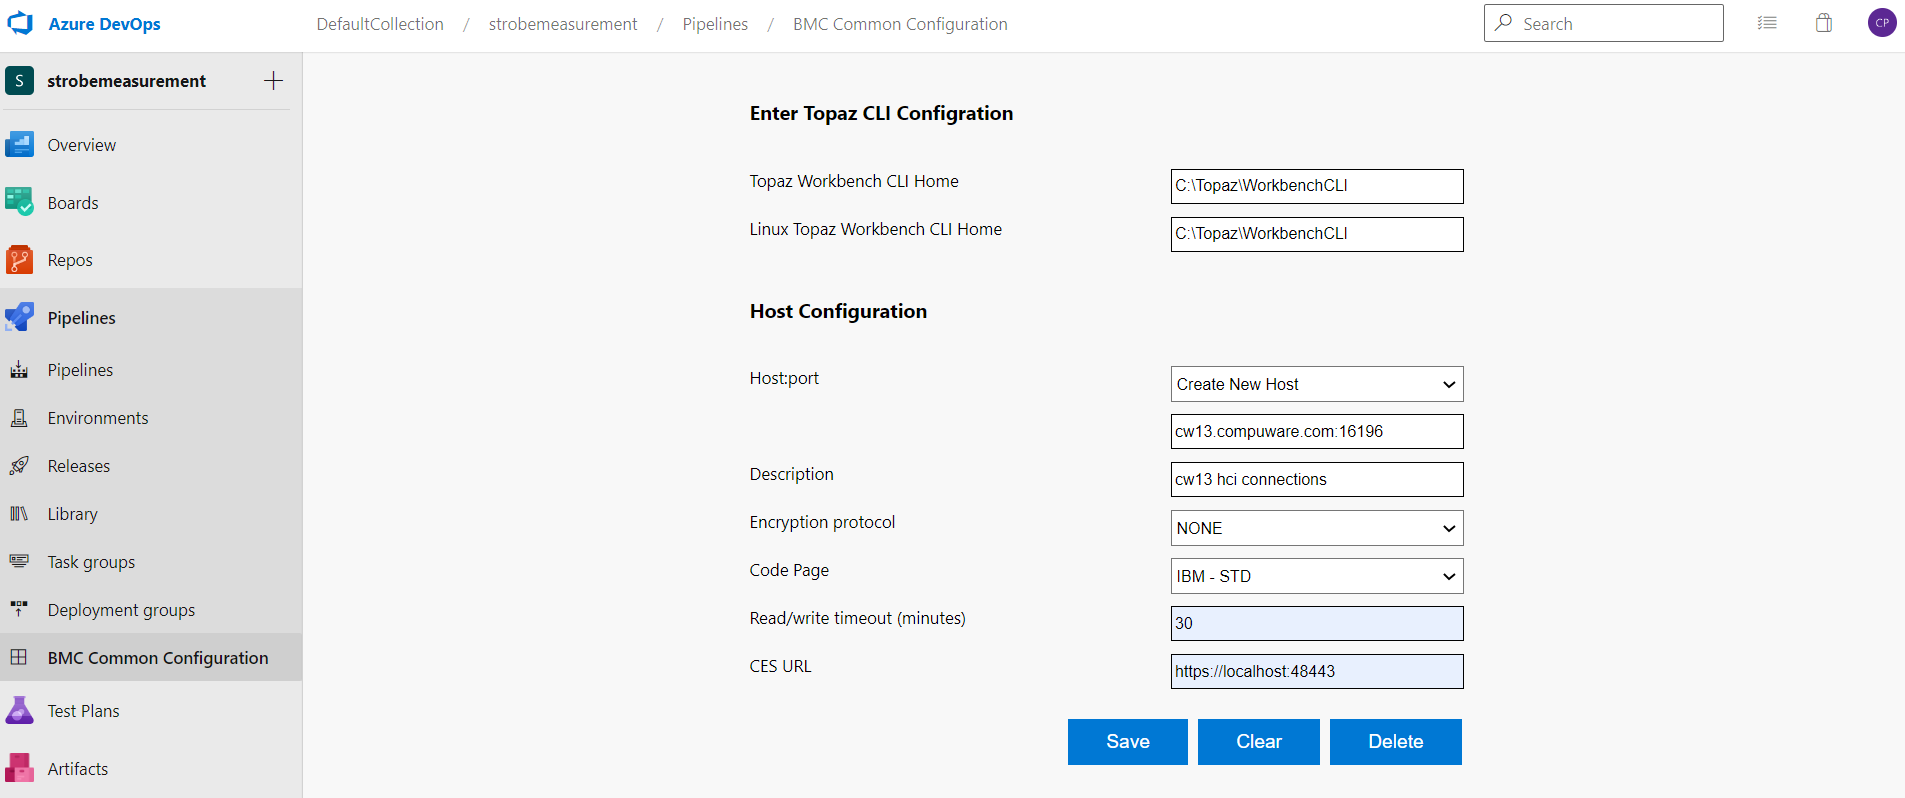
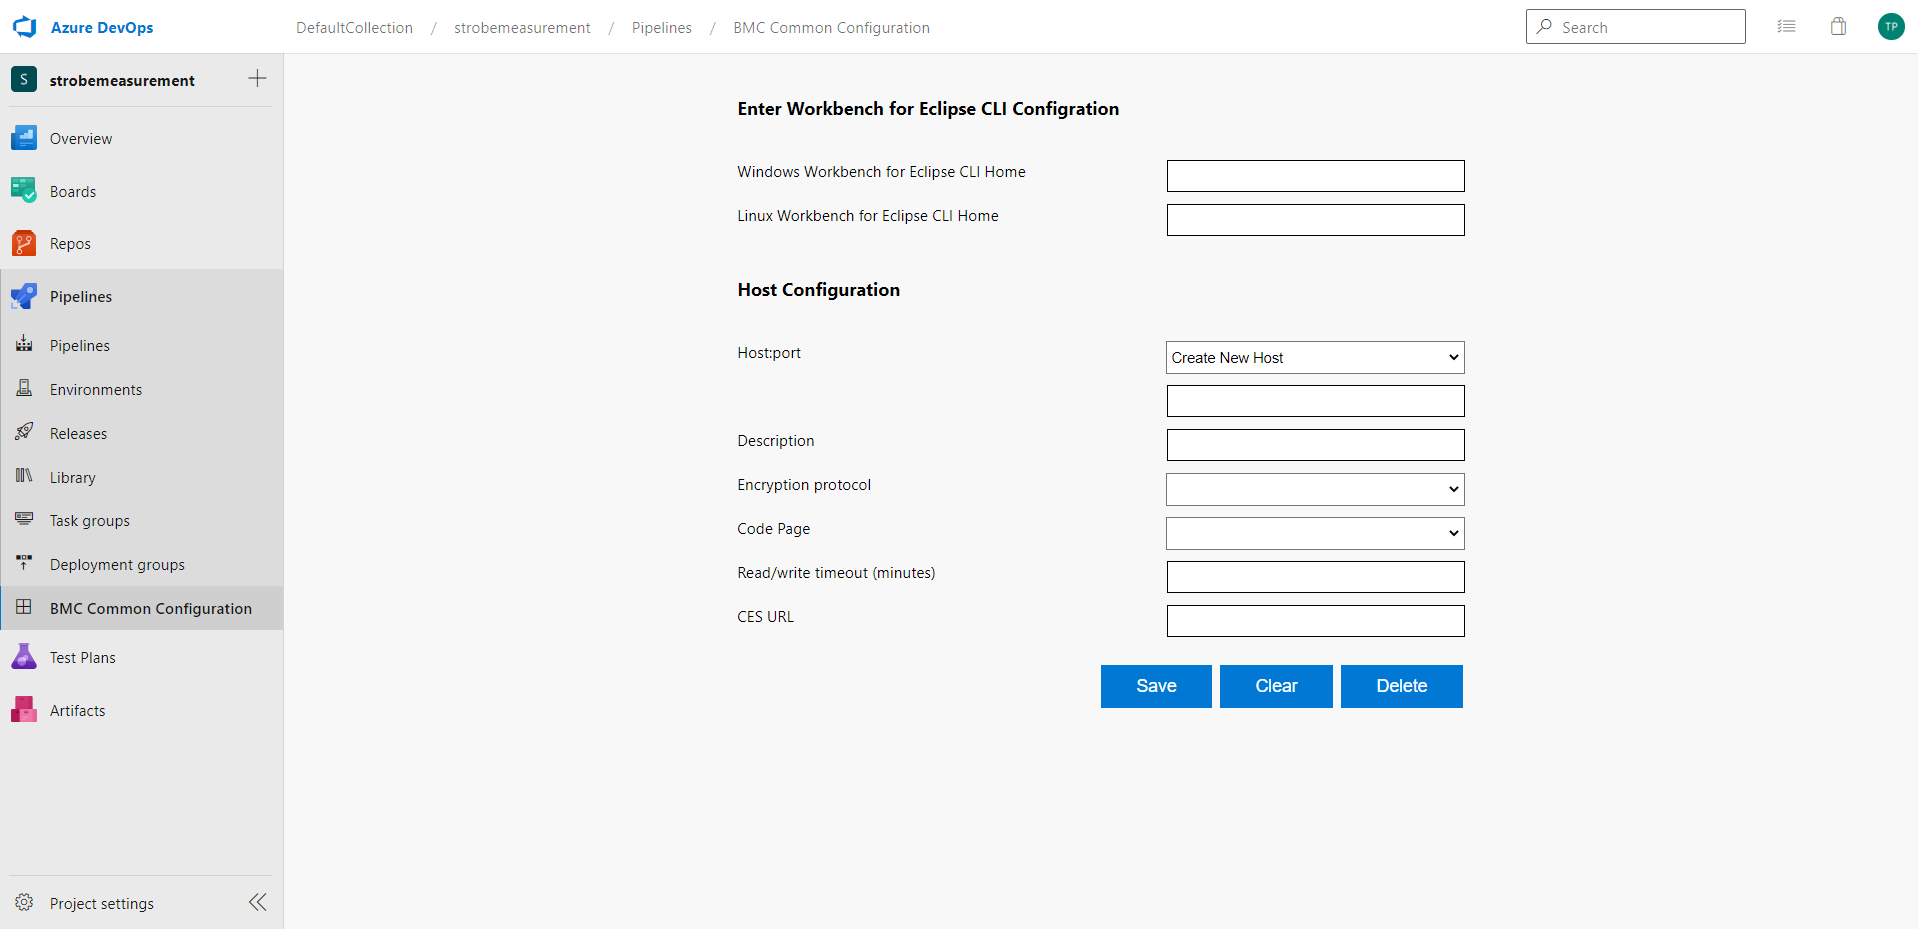
ZENG-280090-BMC-Common-Configuration-rebranding-updated-UI-with -latest-product-names-and-updated-readme.md

diff --git a/src/common-config.html b/src/common-config.html
@@ -12,13 +12,13 @@
 <body>
     <div class="HostConfiExtensionSec">
         <div class="TopazCLIConfig">
-            <h3 class="sectionTitle">Enter Topaz CLI Configration</h2>
+            <h3 class="sectionTitle">Enter Workbench for Eclipse CLI Configration</h2>
             <div class="formInputDiv">
-                <label for="CLIHome"> Topaz Workbench CLI Home</label>
+                <label for="CLIHome"> Windows Workbench for Eclipse CLI Home</label>
                 <input type="text" name="windows_CLI" id="windows_CLI">
             </div>
             <div class="formInputDiv">
-                <label for="LinuxTopaz"> Linux Topaz Workbench CLI Home</label>
+                <label for="LinuxTopaz"> Linux Workbench for Eclipse CLI Home</label>
                 <input type="text" name="linux_CLI" id="linux_CLI">
             </div>
         </div>

diff --git a/readme.md b/readme.md
@@ -18,15 +18,15 @@ Install the BMC common configuration extension according to the Azure Devops ins
 
 ![](images/bmccommonconfig.png)
 
-In order to download Endevor, PDS, and ISPW members you will need to point to an installed Topaz Workbench Command Line Interface (CLI). The Topaz Workbench CLI will work with host connection(s) you also need to configure to download Endevor, PDS, and ISPW members.
+In order to download Endevor, PDS, and Code Pipeline members you will need to point to an installed Workbench for Eclipse Command Line Interface (CLI). The Workbench for Eclipse CLI will work with host connection(s) you also need to configure to download Endevor, PDS, and Code Pipeline members.
 
-Navigate to Pipelines and go to Compuware Configurations section.
+Navigate to Pipelines and go to BMC Common Configuration section.
 
-- **Windows Topaz Workbench CLI home** : Point to the Windows installation location of the CLI. If necessary, change the default values given to match the correct installation location.
+- **Windows Workbench for Eclipse CLI home** : Point to the Windows installation location of the CLI. If necessary, change the default values given to match the correct installation location.
 
-- **Linux Topaz Workbench CLI home** : Point to the Linux installation location of the CLI. If necessary, change the default values given to match the correct installation location.
+- **Linux Workbench for Eclipse CLI home** : Point to the Linux installation location of the CLI. If necessary, change the default values given to match the correct installation location.
 
-![](docs/images/info.svg) The Topaz Workbench CLI must be installed on the machine that is configured to run the job.
+![](docs/images/info.svg) The Workbench for Eclipse CLI must be installed on the machine that is configured to run the job.
 
 **Host connections**
 
@@ -42,7 +42,7 @@ Navigate to Pipelines and go to Compuware Configurations section.
 
 - **Read/write timeout (minutes)** : Enter the number of minutes for the plugin to wait for a response from the host before timing out.
 
-- **CES URL** : Optionally, enter a URL for Compuware Enterprise Services (CES). This URL is used by other Compuware plugins that leverage REST APIs hosted by CES, for example Compuware's ISPW.
+- **CES URL** : Optionally, enter a URL for Common Enterprise Services (CES). This URL is used by other BMC plugins that leverage REST APIs hosted by CES, for example BMC's Code Pipeline.
 
 
 ## Product Assistance
@@ -61,7 +61,7 @@ At BMC, we strive to make our products and documentation the best in the industr
 
 - The name, release number, and build number of your product. This information is displayed in the installed extensions page. Apply filter: BMC in order to display all of the installed BMC extension.
 
-- Environment information, such as the operating system and release on which the Topaz CLI is installed.
+- Environment information, such as the operating system and release on which the Workbench for Eclipse CLI is installed.
 
 You can contact BMC in one of the following ways:
 
